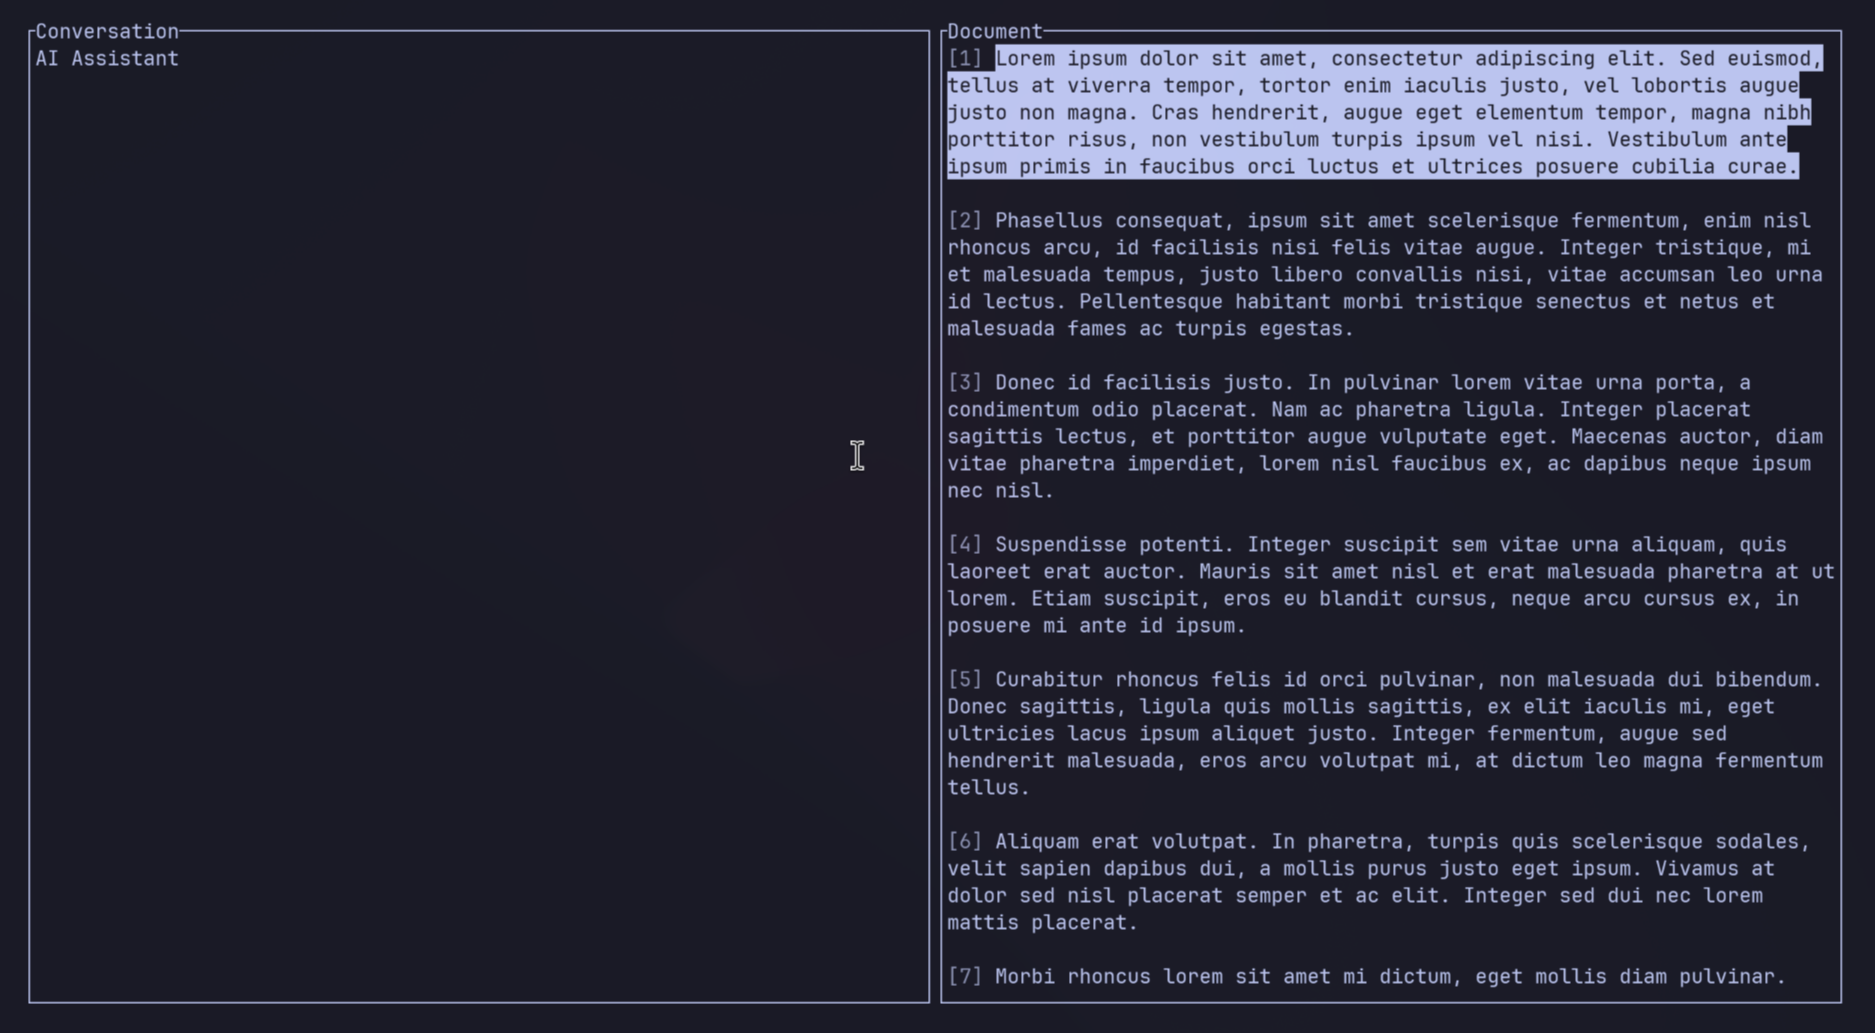
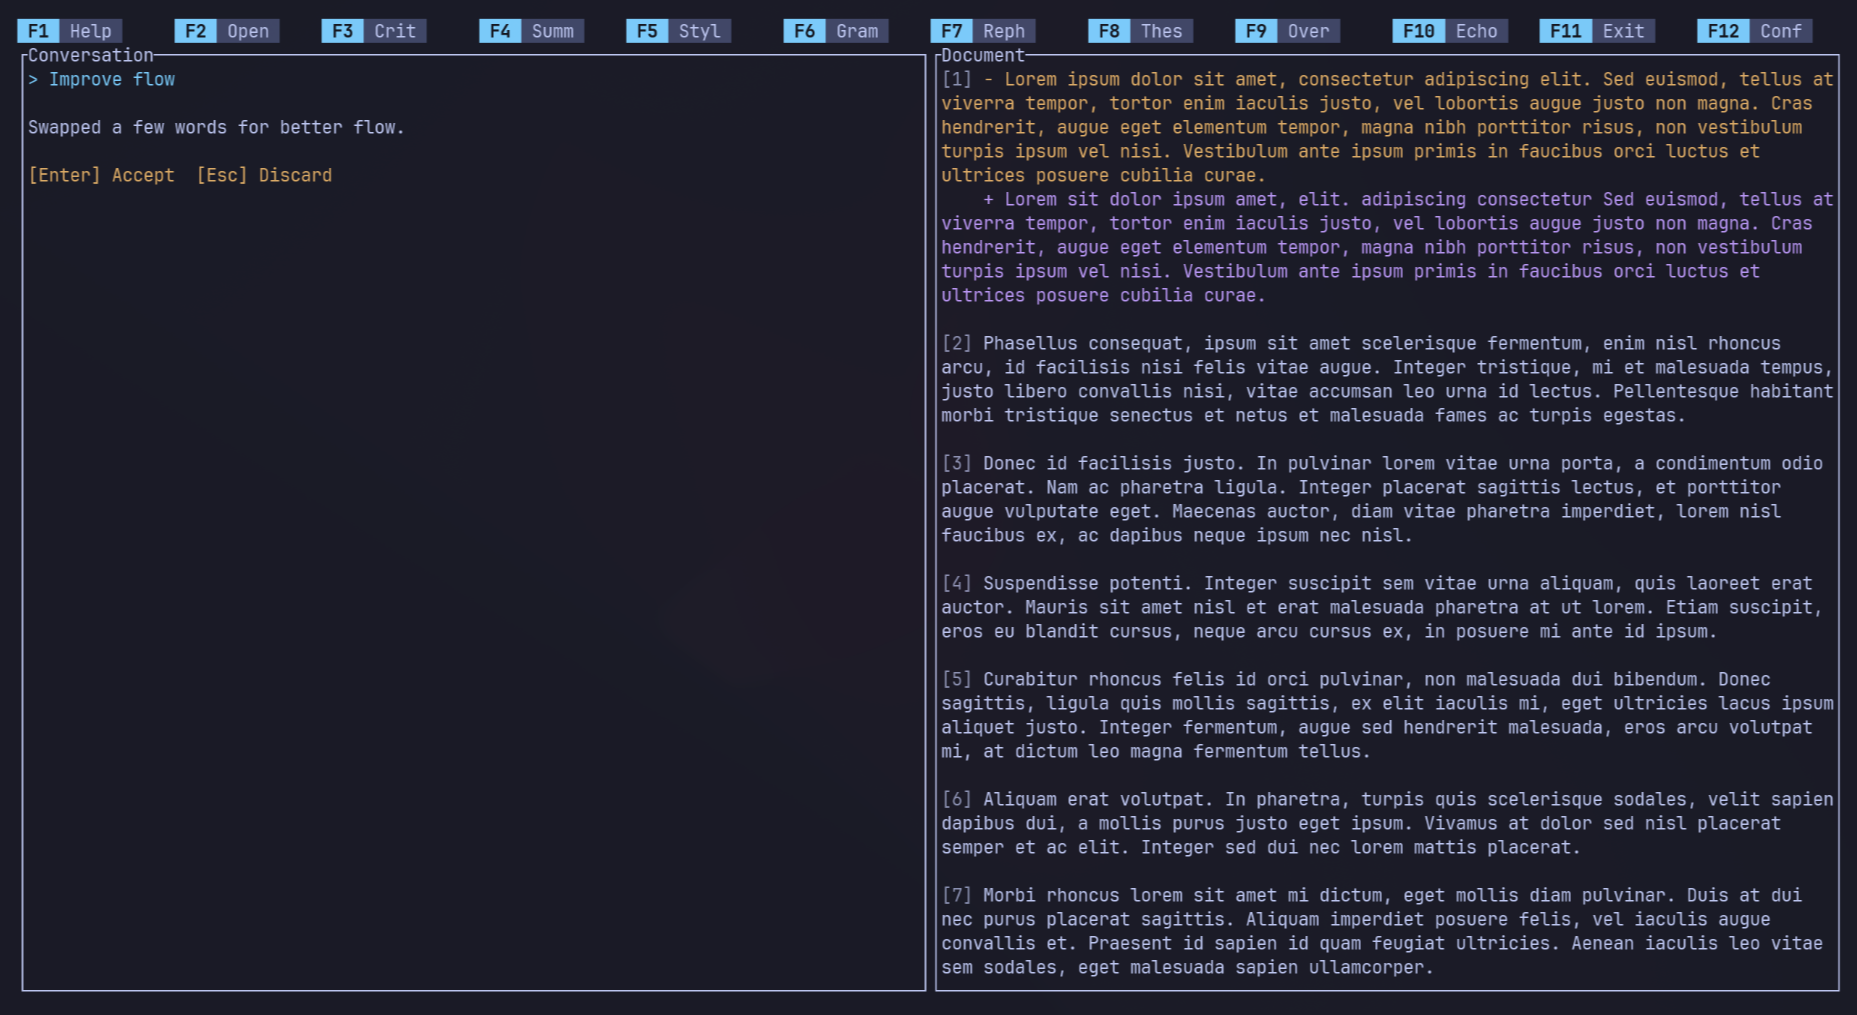
Implement review mode and agent integration
- Add Agent trait with MockAgent
- Show diff view in document panel during review
- Handle Enter/Esc for accept/reject suggestions

Changed region(s): [[0.0, 0.0, 0.9995, 0.9773]]

diff --git a/src/ui/render.rs b/src/ui/render.rs
@@ -1,12 +1,12 @@
 use ratatui::{
     Frame,
     layout::{Constraint, Layout, Rect},
-    style::{Modifier, Style},
+    style::{Color, Modifier, Style},
     text::{Line, Span},
     widgets::{Block, Borders, Paragraph, Wrap},
 };
 
-use crate::app::App;
+use crate::app::{App, AppMode};
 use crate::document::index_label;
 use super::widgets::render_function_bar;
 
@@ -22,29 +22,85 @@ pub fn draw(frame: &mut Frame, app: &App) {
     let panels = Layout::horizontal([Constraint::Percentage(50), Constraint::Percentage(50)])
         .split(main_layout[1]);
 
-    draw_conversation_panel(frame, &panels[0]);
+    draw_conversation_panel(frame, app, &panels[0]);
     draw_document_panel(frame, app, &panels[1]);
 }
 
-fn draw_conversation_panel(frame: &mut Frame, area: &Rect) {
-    let panel = Paragraph::new("AI Assistant")
-        .block(Block::default().title("Conversation").borders(Borders::ALL));
-    frame.render_widget(panel, *area);
+fn draw_conversation_panel(frame: &mut Frame, app: &App, area: &Rect) {
+    use crate::app::Role;
+
+    let mut lines: Vec<Line> = Vec::new();
+    for msg in &app.conversation {
+        let (prefix, style) = match msg.role {
+            Role::User => ("> ", Style::default().fg(Color::Cyan)),
+            Role::Assistant => ("", Style::default().fg(Color::White)),
+        };
+        lines.push(Line::from(Span::styled(format!("{}{}", prefix, msg.content), style)));
+        lines.push(Line::from(""));
+    }
+
+    // Show input or review hint depending on mode
+    match &app.mode {
+        AppMode::Normal => {
+            let input_style = Style::default().fg(Color::Cyan);
+            lines.push(Line::from(Span::styled(format!("> {}_", app.input), input_style)));
+        }
+        AppMode::Review { .. } => {
+            let hint_style = Style::default().fg(Color::Yellow);
+            lines.push(Line::from(Span::styled(
+                "[Enter] Accept  [Esc] Discard",
+                hint_style,
+            )));
+        }
+    }
+
+    let conversation = Paragraph::new(lines)
+        .block(Block::default().title("Conversation").borders(Borders::ALL))
+        .wrap(Wrap { trim: false });
+    frame.render_widget(conversation, *area);
 }
 
 fn draw_document_panel(frame: &mut Frame, app: &App, area: &Rect) {
+    let review_info = match &app.mode {
+        AppMode::Review { suggestion, paragraph_index } => Some((suggestion, *paragraph_index)),
+        AppMode::Normal => None,
+    };
+
     let doc_lines: Vec<Line> = app
         .document
         .paragraphs
         .iter()
         .enumerate()
         .flat_map(|(i, p)| {
-            let style = if i == app.document.selected {
+            let index_style = Style::default().add_modifier(Modifier::DIM);
+
+            // Check if this paragraph is being reviewed
+            if let Some((suggestion, review_idx)) = &review_info {
+                if i == *review_idx {
+                    // Show diff view (Tokyo Night palette)
+                    let removed_style = Style::default().fg(Color::Rgb(224, 175, 104)); // yellow
+                    let added_style = Style::default().fg(Color::Rgb(187, 154, 247));   // purple
+
+                    let label = Span::styled(format!("[{}] ", index_label(i)), index_style);
+                    let removed_line = Line::from(vec![
+                        label.clone(),
+                        Span::styled(format!("- {}", suggestion.original), removed_style),
+                    ]);
+                    let added_line = Line::from(vec![
+                        Span::styled("    ", index_style), // spacing to align with label
+                        Span::styled(format!("+ {}", suggestion.replacement), added_style),
+                    ]);
+
+                    return vec![removed_line, added_line, Line::from("")];
+                }
+            }
+
+            // Normal view
+            let style = if i == app.document.selected && review_info.is_none() {
                 Style::default().add_modifier(Modifier::REVERSED)
             } else {
                 Style::default()
             };
-            let index_style = Style::default().add_modifier(Modifier::DIM);
             let line = Line::from(vec![
                 Span::styled(format!("[{}] ", index_label(i)), index_style),
                 Span::styled(p.clone(), style),

diff --git a/src/main.rs b/src/main.rs
@@ -1,3 +1,4 @@
+mod agent;
 mod app;
 mod document;
 mod ui;
@@ -13,12 +14,15 @@ use crossterm::{
 };
 use ratatui::{Terminal, backend::CrosstermBackend};
 
-use crate::app::App;
+use crate::agent::{Agent, MockAgent, Prompt};
+use crate::app::{App, AppMode};
 
 fn main() -> io::Result<()> {
     enable_raw_mode()?;
     io::stdout().execute(EnterAlternateScreen)?;
     let mut terminal = Terminal::new(CrosstermBackend::new(io::stdout()))?;
+
+    let agent = MockAgent::new();
 
     let args: Vec<String> = env::args().collect();
     let mut app = if args.len() > 1 {
@@ -35,11 +39,67 @@ fn main() -> io::Result<()> {
         terminal.draw(|frame| ui::draw(frame, &app))?;
 
         if let Event::Key(key) = event::read()? {
+            // Global keybindings (work in any mode)
             match key.code {
-                KeyCode::Char('q') | KeyCode::F(11) => app.quit(),
-                KeyCode::Char('j') | KeyCode::Down => app.document.select_next(),
-                KeyCode::Char('k') | KeyCode::Up => app.document.select_prev(),
+                KeyCode::F(11) => {
+                    app.quit();
+                    continue;
+                }
+                KeyCode::Char('q') if key.modifiers.contains(event::KeyModifiers::CONTROL) => {
+                    app.quit();
+                    continue;
+                }
                 _ => {}
+            }
+
+            // Mode-specific keybindings
+            match &app.mode {
+                AppMode::Normal => match key.code {
+                    KeyCode::Char('j') if key.modifiers.contains(event::KeyModifiers::CONTROL) => {
+                        app.document.select_next()
+                    }
+                    KeyCode::Char('k') if key.modifiers.contains(event::KeyModifiers::CONTROL) => {
+                        app.document.select_prev()
+                    }
+                    KeyCode::Down => app.document.select_next(),
+                    KeyCode::Up => app.document.select_prev(),
+                    KeyCode::Char(c) => app.input.push(c),
+                    KeyCode::Backspace => {
+                        app.input.pop();
+                    }
+                    KeyCode::Enter => {
+                        if !app.input.is_empty() {
+                            let user_msg = app.input.clone();
+                            app.conversation.push(crate::app::Message {
+                                role: crate::app::Role::User,
+                                content: user_msg.clone(),
+                            });
+
+                            let selected_idx = app.document.selected;
+                            let selected_paragraph = &app.document.paragraphs[selected_idx];
+                            let prompt = Prompt::new(
+                                &app.system_prompt,
+                                &user_msg,
+                                selected_paragraph,
+                            );
+                            let suggestion = agent.suggest(&prompt);
+
+                            app.conversation.push(crate::app::Message {
+                                role: crate::app::Role::Assistant,
+                                content: suggestion.explanation.clone(),
+                            });
+
+                            app.enter_review(suggestion, selected_idx);
+                            app.input.clear();
+                        }
+                    }
+                    _ => {}
+                },
+                AppMode::Review { .. } => match key.code {
+                    KeyCode::Enter => app.accept_suggestion(),
+                    KeyCode::Esc => app.reject_suggestion(),
+                    _ => {}
+                },
             }
         }
     }

diff --git a/src/app.rs b/src/app.rs
@@ -1,10 +1,33 @@
 use std::path::Path;
 
+use crate::agent::Suggestion;
 use crate::document::Document;
+
+pub struct Message {
+    pub role: Role,
+    pub content: String,
+}
+
+pub enum Role {
+    User,
+    Assistant,
+}
+
+pub enum AppMode {
+    Normal,
+    Review {
+        suggestion: Suggestion,
+        paragraph_index: usize,
+    },
+}
 
 pub struct App {
     pub document: Document,
     pub running: bool,
+    pub input: String,
+    pub conversation: Vec<Message>,
+    pub system_prompt: String,
+    pub mode: AppMode,
 }
 
 impl App {
@@ -12,6 +35,10 @@ impl App {
         App {
             document: Document::new(),
             running: true,
+            input: String::new(),
+            conversation: Vec::new(),
+            system_prompt: default_system_prompt(),
+            mode: AppMode::Normal,
         }
     }
 
@@ -19,10 +46,50 @@ impl App {
         Ok(App {
             document: Document::from_file(path)?,
             running: true,
+            input: String::new(),
+            conversation: Vec::new(),
+            system_prompt: default_system_prompt(),
+            mode: AppMode::Normal,
         })
     }
 
     pub fn quit(&mut self) {
         self.running = false;
     }
+
+    pub fn enter_review(&mut self, suggestion: Suggestion, paragraph_index: usize) {
+        self.mode = AppMode::Review {
+            suggestion,
+            paragraph_index,
+        };
+    }
+
+    pub fn accept_suggestion(&mut self) {
+        if let AppMode::Review { suggestion, paragraph_index } = &self.mode {
+            self.document.paragraphs[*paragraph_index] = suggestion.replacement.clone();
+            self.conversation.push(Message {
+                role: Role::Assistant,
+                content: String::from("Change accepted."),
+            });
+        }
+        self.mode = AppMode::Normal;
+    }
+
+    pub fn reject_suggestion(&mut self) {
+        if let AppMode::Review { .. } = &self.mode {
+            self.conversation.push(Message {
+                role: Role::Assistant,
+                content: String::from("Change discarded."),
+            });
+        }
+        self.mode = AppMode::Normal;
+    }
+}
+
+fn default_system_prompt() -> String {
+    String::from(
+        "You are an expert proofreader and writing assistant. \
+        Your role is to help improve text clarity, grammar, style, and flow. \
+        Be concise and specific in your suggestions."
+    )
 }

diff --git a/src/agent/mock.rs b/src/agent/mock.rs
@@ -1,0 +1,38 @@
+use super::{Agent, Prompt, Suggestion};
+
+pub struct MockAgent;
+
+impl MockAgent {
+    pub fn new() -> Self {
+        MockAgent
+    }
+}
+
+impl Agent for MockAgent {
+    fn suggest(&self, prompt: &Prompt) -> Suggestion {
+        let words: Vec<&str> = prompt.content.split_whitespace().collect();
+
+        if words.len() < 4 {
+            return Suggestion {
+                original: prompt.content.clone(),
+                replacement: prompt.content.clone(),
+                explanation: String::from("Text is too short to analyze."),
+            };
+        }
+
+        let mut modified = words.clone();
+
+        if words.len() >= 4 {
+            modified.swap(1, 3);
+        }
+        if words.len() >= 8 {
+            modified.swap(5, 7);
+        }
+
+        Suggestion {
+            original: prompt.content.clone(),
+            replacement: modified.join(" "),
+            explanation: String::from("Swapped a few words for better flow."),
+        }
+    }
+}

diff --git a/src/agent/mod.rs b/src/agent/mod.rs
@@ -1,0 +1,30 @@
+mod mock;
+
+pub use mock::MockAgent;
+
+pub struct Prompt {
+    pub system: String,
+    pub instruction: String,
+    pub content: String,
+}
+
+impl Prompt {
+    pub fn new(system: &str, instruction: &str, content: &str) -> Self {
+        Prompt {
+            system: system.to_string(),
+            instruction: instruction.to_string(),
+            content: content.to_string(),
+        }
+    }
+}
+
+#[derive(Clone)]
+pub struct Suggestion {
+    pub original: String,
+    pub replacement: String,
+    pub explanation: String,
+}
+
+pub trait Agent {
+    fn suggest(&self, prompt: &Prompt) -> Suggestion;
+}
